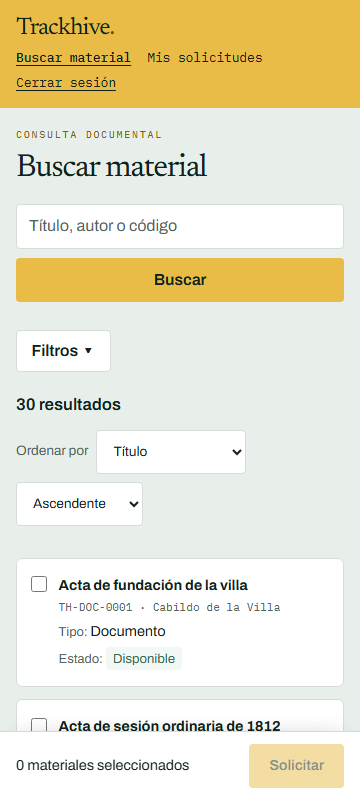
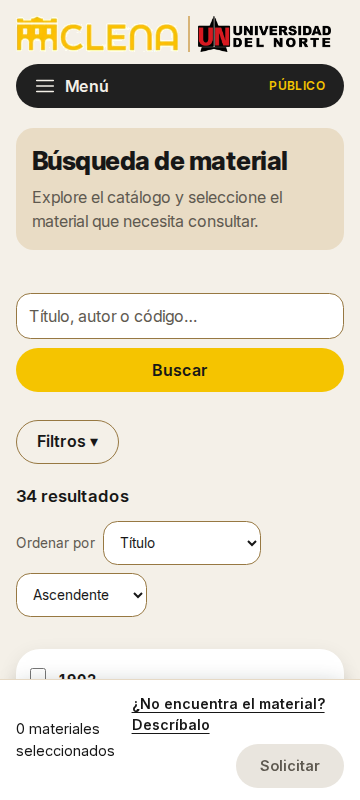
docs: deja un solo README en la raíz y mueve los demás a docs/ (#42)
- README: capturas del frontend actual a 1280 y 360 px, sin «Contribuir»
  ni «Licencia y propiedad», y la tabla de documentación con los nuevos
  docs/backend.md, docs/frontend.md y docs/agente.md.
- agent/README.md pasa a docs/agente.md y backend/README.md a
  docs/backend.md, sin la plantilla de NestJS.
- frontend/README.md pasa a docs/frontend.md con las rutas, la redirección
  por defecto y la estructura actuales; se quita «Estado y alcance», que
  describía pendientes ya resueltos.
- Se borran dev/README.md (ya lo cubre docs/everything-desarrollo.md) y
  docs/README.md (su exportación a PDF usaba scripts que no existen).
- dev/fixtures/README.md se queda: lo genera capturar_fixtures.py y lo lee
  la prueba del mock.

diff --git a/docs/frontend.md b/docs/frontend.md
@@ -1,11 +1,8 @@
-# Trackhive · Frontend
+# Frontend de Trackhive
 
-Interfaz web de Trackhive (React + TypeScript + Vite). Cubre el registro de
-investigadores (HU-47), el inicio de sesión, el buscador de material (HU-7.1),
-la pantalla de material del personal (HU-08 y #109), el registro de solicitudes del
-personal a nombre de un visitante (HU-93), el listado de solicitudes del
-personal (HU-12), el detalle de una solicitud con la acción de cambiar su
-estado (HU-13 y HU-15) y «Mis solicitudes» del usuario público (HU-11).
+Interfaz web de Trackhive en React, TypeScript y Vite. El código está en
+[`frontend/`](../frontend/); las pantallas siguen el [mapa de pantallas y
+wireframes](pantallas.md).
 
 ## Requisitos
 
@@ -27,28 +24,33 @@ pnpm test:e2e:docker # Con Docker activo: pruebas de integración a través de l
 
 ## Rutas
 
-| Ruta                             | Pantalla                                                   | Acceso           |
-| -------------------------------- | ---------------------------------------------------------- | ---------------- |
-| `/registro`                      | Registro de investigadores                                 | Público          |
-| `/login`                         | Inicio de sesión                                           | Público          |
-| `/mi-perfil`                     | Consultar y editar caracterización (HU-73)                  | Cualquier rol autenticado |
-| `/materiales`                    | Buscador de material (HU-7.1); el personal va a `/personal/materiales` | `PUBLICO`        |
-| `/solicitudes/nueva`             | Solicitud del usuario público (HU-10)                      | `PUBLICO`        |
-| `/mis-solicitudes`               | Mis solicitudes: estado de cada una (HU-11)                | `PUBLICO`        |
-| `/personal/materiales`           | Material del personal: estado (HU-08) y elegir para registrar solicitud (#109) | `PERSONAL`/`ADMIN` |
-| `/personal/solicitudes/nueva`    | Registrar solicitud a nombre de un visitante (HU-93)       | `PERSONAL`/`ADMIN` |
-| `/solicitudes`                   | Listar y filtrar solicitudes (HU-12)                       | `PERSONAL`/`ADMIN` |
-| `/solicitudes/:id`               | Detalle de una solicitud, cambio de estado y agendar cita (HU-13, HU-15, HU-18) | `PERSONAL`/`ADMIN` |
-| `/admin/usuarios`                | Gestión de usuarios del personal: crear, editar, desactivar y activar (HU-05) | `ADMIN`          |
-| `/admin/sincronizacion`          | Sincronización con Everything: última sincronización, contacto del agente y «Sincronizar ahora» (HU-138) | `ADMIN`          |
+| Ruta | Pantalla | Acceso |
+| --- | --- | --- |
+| `/registro` | Registro de investigadores (HU-47) | Público |
+| `/login` | Inicio de sesión | Público |
+| `/mi-perfil` | Consultar y editar caracterización (HU-73) y eliminar la cuenta (HU-33) | Cualquier rol autenticado |
+| `/materiales` | Buscador de material (HU-7.1); el personal va a `/personal/materiales` | `PUBLICO` |
+| `/solicitudes/nueva` | Solicitud del usuario público (HU-10) | `PUBLICO` |
+| `/mis-solicitudes` | Mis solicitudes: estado de cada una (HU-11) | `PUBLICO` |
+| `/personal/materiales` | Archivo: estado del material (HU-08), entregas y devoluciones (HU-72) y elegir material para registrar una solicitud (#109) | `PERSONAL`/`ADMIN` |
+| `/personal/solicitudes/nueva` | Registrar solicitud a nombre de un visitante (HU-93) | `PERSONAL`/`ADMIN` |
+| `/solicitudes` | Listar y filtrar solicitudes (HU-12) | `PERSONAL`/`ADMIN` |
+| `/solicitudes/:id` | Detalle de una solicitud, cambio de estado y agendar cita (HU-13, HU-15, HU-18) | `PERSONAL`/`ADMIN` |
+| `/calendario` | Calendario de citas (HU-142, WF-11) | `PERSONAL`/`ADMIN` |
+| `/reportes/material-mas-solicitado` | Material más solicitado | `PERSONAL`/`ADMIN` |
+| `/reportes/tiempos-de-atencion` | Tiempos de atención (HU-25) | `ADMIN` |
+| `/admin/usuarios` | Gestión de usuarios del personal: crear, editar, desactivar y activar (HU-05) | `ADMIN` |
+| `/admin/capacidad-sala` | Capacidad diaria de la sala de lectura | `ADMIN` |
+| `/admin/sincronizacion` | Sincronización con Everything: última sincronización, contacto del agente y «Sincronizar ahora» (HU-138) | `ADMIN` |
 
 Las rutas del usuario público viven dentro de `ProtectedRoute`; cualquier otro
 rol o una sesión vencida redirige a `/login`. Las rutas de personal viven dentro
 de `StaffRoute`; si el rol no es `PERSONAL`
 ni `ADMIN`, redirigen a `/materiales` o a `/login`. Las rutas de administración
 viven dentro de `AdminRoute`: un `PERSONAL` vuelve a `/solicitudes`, un
-`PUBLICO` a `/materiales` y sin sesión a `/login`. Cualquier otra ruta redirige
-a `/registro`.
+`PUBLICO` a `/materiales` y sin sesión a `/login`. Cualquier otra ruta lleva a la pantalla
+inicial del rol (`/materiales` para `PUBLICO`, `/solicitudes` para el
+personal) o, sin sesión, a `/login`.
 
 ## API
 
@@ -78,7 +80,7 @@ Usa `personal1@example.com` con contraseña `1`, o `SEED_DEMO_PASSWORD` del proc
 Comprueba registro, precarga, edición persistida, reutilización sin repetir los
 campos y 401 sin token. Deja una captura de «Mi perfil» en `test-results/`.
 El catálogo y la finalidad pendiente de confirmar con CLENA están en
-[`docs/datos-personales.md`](../docs/datos-personales.md).
+[`docs/datos-personales.md`](datos-personales.md).
 
 ### Actualización automática de solicitudes (HU-12.1, #141)
 
@@ -268,26 +270,6 @@ propia cuenta).
   volver a la pestaña. Lo hace cada 5 s mientras hay una corrida pedida o en
   curso, y cada 30 s si no, así que el resultado nuevo aparece sin recargar
   cuando el agente termina. Se anuncia en una región `status`.
-
-## Estado y alcance
-
-- **HU-01 integrado:** el `POST /api/v1/users` acepta `firstName`,
-  `middleName`, `lastName`, `secondLastName` (issue #96), `email` y
-  `password`, guarda la contraseña como hash y responde `409` si el correo ya
-  existe.
-- **HU-31 (aviso de privacidad):** la pantalla exige aceptar el aviso antes de
-  enviar el formulario. El texto real, la versión y la fecha de vigencia están
-  en `src/features/auth/register/privacy-policy.ts` y
-  `PrivacyConsent.tsx`. **Pendiente:** el backend aún no recibe ni guarda la
-  aceptación, la fecha y la versión.
-- **HU-46:** el [mapa de pantallas y wireframes](../docs/pantallas.md) incluye
-  vistas PNG y archivos SVG importables en Figma. Son borradores de referencia;
-  la revisión y validación con G6 están pendientes y no bloquean otras HU.
-- **HU-48 no disponible:** `/login` es un marcador temporal; al registrarse se
-  redirige allí con un aviso y el correo registrado.
-- **HU-93 integrado:** la pantalla de mostrador permite buscar al solicitante,
-  elegir materiales en `/personal/materiales` (#109), registrar la solicitud y mostrar
-  el comprobante con el código de seguimiento. No modifica el backend.
 
 ## Accesibilidad
 
@@ -500,12 +482,25 @@ personal al destino correcto.
 ## Estructura
 
 ```text
-src/
-  features/auth/
-    api/            # cliente de registro y errores tipados
-    components/     # AuthLayout y TextField accesibles
-    login/          # marcador de posición de /login
-    register/       # pantalla, esquema Zod y pruebas
-  styles/           # tokens y estilos globales
-  test/             # configuración de Testing Library
+frontend/
+├── src/
+│   ├── App.tsx          # rutas (las de ROUTES en routes.ts) y sus guardas por rol
+│   ├── main.tsx         # router de datos (useBlocker) que envuelve <App />
+│   ├── assets/          # logos de CLENA y Uninorte y la fuente Inter
+│   ├── features/        # una carpeta por funcionalidad: pantallas, api/, CSS Modules y pruebas al lado
+│   │   ├── auth/        # registro, inicio de sesión, sesión y guardas por rol
+│   │   ├── layout/      # AppLayout, PageHeader, título de la pestaña y diálogos modales
+│   │   ├── navigation/  # menú por rol, foco al cambiar de ruta, filtros en la URL y aviso de cambios sin guardar
+│   │   ├── materials/   # buscador público, archivo del personal, entregas e historial de custodia
+│   │   ├── requests/    # solicitudes, detalle, citas, calendario y capacidad de la sala
+│   │   ├── reports/     # material más solicitado y tiempos de atención
+│   │   ├── users/       # gestión de usuarios del personal
+│   │   ├── everything/  # sincronización con Everything
+│   │   ├── profile/     # Mi perfil y eliminar la cuenta
+│   │   ├── brand/       # logos institucionales
+│   │   └── pending/     # marcador temporal de antes de HU-12; ninguna ruta lo usa
+│   ├── styles/          # tokens, breakpoints y estilos globales
+│   └── test/            # configuración de Vitest y Testing Library
+├── e2e/                 # Playwright: responsive a 360 px y pruebas contra Docker
+└── nginx/               # HTTPS (producción) o HTTP (desarrollo) y proxy hacia la API
 ```

diff --git a/docs/backend.md b/docs/backend.md
@@ -1,29 +1,22 @@
-<p align="center">
-  <a href="http://nestjs.com/" target="blank"><img src="https://nestjs.com/img/logo-small.svg" width="120" alt="Nest Logo" /></a>
-</p>
+# Backend de Trackhive
 
-[circleci-image]: https://img.shields.io/circleci/build/github/nestjs/nest/master?token=abc123def456
-[circleci-url]: https://circleci.com/gh/nestjs/nest
+API REST en NestJS con Prisma y PostgreSQL. El código está en [`backend/`](../backend/) y sigue la Clean Architecture descrita en [arquitectura.md](arquitectura.md) (D-25).
 
-  <p align="center">A progressive <a href="http://nodejs.org" target="_blank">Node.js</a> framework for building efficient and scalable server-side applications.</p>
-    <p align="center">
-<a href="https://www.npmjs.com/~nestjscore" target="_blank"><img src="https://img.shields.io/npm/v/@nestjs/core.svg" alt="NPM Version" /></a>
-<a href="https://www.npmjs.com/~nestjscore" target="_blank"><img src="https://img.shields.io/npm/l/@nestjs/core.svg" alt="Package License" /></a>
-<a href="https://www.npmjs.com/~nestjscore" target="_blank"><img src="https://img.shields.io/npm/dm/@nestjs/common.svg" alt="NPM Downloads" /></a>
-<a href="https://circleci.com/gh/nestjs/nest" target="_blank"><img src="https://img.shields.io/circleci/build/github/nestjs/nest/master" alt="CircleCI" /></a>
-<a href="https://discord.gg/G7Qnnhy" target="_blank"><img src="https://img.shields.io/badge/discord-online-brightgreen.svg" alt="Discord"/></a>
-<a href="https://opencollective.com/nest#backer" target="_blank"><img src="https://opencollective.com/nest/backers/badge.svg" alt="Backers on Open Collective" /></a>
-<a href="https://opencollective.com/nest#sponsor" target="_blank"><img src="https://opencollective.com/nest/sponsors/badge.svg" alt="Sponsors on Open Collective" /></a>
-  <a href="https://paypal.me/kamilmysliwiec" target="_blank"><img src="https://img.shields.io/badge/Donate-PayPal-ff3f59.svg" alt="Donate us"/></a>
-    <a href="https://opencollective.com/nest#sponsor"  target="_blank"><img src="https://img.shields.io/badge/Support%20us-Open%20Collective-41B883.svg" alt="Support us"></a>
-  <a href="https://twitter.com/nestframework" target="_blank"><img src="https://img.shields.io/twitter/follow/nestframework.svg?style=social&label=Follow" alt="Follow us on Twitter"></a>
-</p>
-  <!--[![Backers on Open Collective](https://opencollective.com/nest/backers/badge.svg)](https://opencollective.com/nest#backer)
-  [![Sponsors on Open Collective](https://opencollective.com/nest/sponsors/badge.svg)](https://opencollective.com/nest#sponsor)-->
+## Comandos
 
-## Description
+Desde `backend/`, con PostgreSQL y Mailpit levantados (ver el [README](../README.md#desarrollo-local-sin-docker)):
 
-Backend de Trackhive: API REST en NestJS con Prisma y PostgreSQL.
+```bash
+pnpm install
+pnpm exec prisma generate
+pnpm db:migrate
+pnpm db:seed
+pnpm start:dev     # API en http://localhost:3000, Swagger en /docs
+pnpm lint:check
+pnpm test          # unitarias, incluida la prueba de arquitectura
+pnpm test:e2e      # contra PostgreSQL, en la base <POSTGRES_DB>_e2e
+pnpm build
+```
 
 ## API
 
@@ -124,78 +117,6 @@ Verificar con `pnpm test -- --runInBand 'csv|export-report'` y
 aislado, compara CSV con los reportes JSON y comprueba permisos, filtros,
 caracteres especiales, archivos vacíos y ausencia de escrituras durante la
 consulta y sus errores. No requiere migración ni cambios al esquema.
-
-## Project setup
-
-```bash
-$ pnpm install
-```
-
-## Compile and run the project
-
-```bash
-# development
-$ pnpm run start
-
-# watch mode
-$ pnpm run start:dev
-
-# production mode
-$ pnpm run start:prod
-```
-
-## Run tests
-
-```bash
-# unit tests
-$ pnpm run test
-
-# e2e tests
-$ pnpm run test:e2e
-
-# test coverage
-$ pnpm run test:cov
-```
-
-## Deployment
-
-When you're ready to deploy your NestJS application to production, there are some key steps you can take to ensure it runs as efficiently as possible. Check out the [deployment documentation](https://docs.nestjs.com/deployment) for more information.
-
-If you are looking for a cloud-based platform to deploy your NestJS application, check out [Mau](https://mau.nestjs.com), our official platform for deploying NestJS applications on AWS. Mau makes deployment straightforward and fast, requiring just a few simple steps:
-
-```bash
-$ pnpm install -g @nestjs/mau
-$ mau deploy
-```
-
-With Mau, you can deploy your application in just a few clicks, allowing you to focus on building features rather than managing infrastructure.
-
-## Resources
-
-Check out a few resources that may come in handy when working with NestJS:
-
-- Visit the [NestJS Documentation](https://docs.nestjs.com) to learn more about the framework.
-- For questions and support, please visit our [Discord channel](https://discord.gg/G7Qnnhy).
-- To dive deeper and get more hands-on experience, check out our official video [courses](https://courses.nestjs.com/).
-- Deploy your application to AWS with the help of [NestJS Mau](https://mau.nestjs.com) in just a few clicks.
-- Visualize your application graph and interact with the NestJS application in real-time using [NestJS Devtools](https://devtools.nestjs.com).
-- Need help with your project (part-time to full-time)? Check out our official [enterprise support](https://enterprise.nestjs.com).
-- To stay in the loop and get updates, follow us on [X](https://x.com/nestframework) and [LinkedIn](https://linkedin.com/company/nestjs).
-- Looking for a job, or have a job to offer? Check out our official [Jobs board](https://jobs.nestjs.com).
-
-## Support
-
-Nest is an MIT-licensed open source project. It can grow thanks to the sponsors and support by the amazing backers. If you'd like to join them, please [read more here](https://docs.nestjs.com/support).
-
-## Stay in touch
-
-- Author - [Kamil Myśliwiec](https://twitter.com/kammysliwiec)
-- Website - [https://nestjs.com](https://nestjs.com/)
-- Twitter - [@nestframework](https://twitter.com/nestframework)
-
-## License
-
-Nest is [MIT licensed](https://github.com/nestjs/nest/blob/master/LICENSE).
 
 ## Supresión de cuenta (HU-33)
 

diff --git a/README.md b/README.md
@@ -25,8 +25,6 @@ Trackhive es una aplicación web con la que el CLENA recibe las solicitudes de c
 - [Estructura del repositorio](#estructura-del-repositorio)
 - [Documentación](#documentación)
 - [Solución de problemas](#solución-de-problemas)
-- [Contribuir](#contribuir)
-- [Licencia y propiedad](#licencia-y-propiedad)
 
 ---
 
@@ -313,7 +311,7 @@ pip install -r dev/requirements.txt -r agent/requirements.txt
 python -m unittest discover -s agent/tests -t agent
 ```
 
-El CI también las corre en Linux y en Windows, contra el mock de Everything. En Windows construye `trackhive-agente.exe` con PyInstaller, lo prueba y lo publica como artefacto `trackhive-agente` ([agent/README.md](agent/README.md)).
+El CI también las corre en Linux y en Windows, contra el mock de Everything. En Windows construye `trackhive-agente.exe` con PyInstaller, lo prueba y lo publica como artefacto `trackhive-agente` ([docs/agente.md](docs/agente.md)).
 
 ## Estructura del repositorio
 
@@ -349,14 +347,13 @@ Trackhive/
 ├── docker-compose.yml       # producción: PostgreSQL, backend y frontend con HTTPS
 ├── docker-compose.dev.yml   # desarrollo: puertos de depuración, Mailpit y el mock de Everything
 ├── .env.example             # plantilla del entorno local
-└── README.md
+└── README.md            # este archivo; el resto de la documentación está en docs/
 ```
 
 ## Documentación
 
 El [mapa de pantallas y wireframes](docs/pantallas.md) incluye los roles,
-la navegación y los bocetos SVG y PNG de HU-46 / HU-152, en escritorio y móvil (360 px), con los logos institucionales. Son borradores de
-referencia con revisión y validación de G6 pendientes.
+la navegación y los wireframes aprobados (HU-46 / HU-152), en escritorio y móvil (360 px), con las diferencias entre los bocetos y la aplicación.
 
 | Documento | Contenido |
 |---|---|
@@ -365,12 +362,18 @@ referencia con revisión y validación de G6 pendientes.
 | [`docs/modelo-datos.md`](docs/modelo-datos.md) / [`docs/modelo-datos.pdf`](docs/modelo-datos.pdf) | Diagrama entidad-relación, tablas, índices, migraciones y datos personales. |
 | [`docs/manual-operacion.md`](docs/manual-operacion.md) | Operación, variables de entorno, correos, respaldos, diagnóstico e instalación del agente de Everything en el PC del CLENA (HU-166). |
 | [`docs/everything-desarrollo.md`](docs/everything-desarrollo.md) | Entorno de Everything con documentos simulados: estructura del CLENA, Everything portable e instalado, fixtures, mock y sincronización con el backend (HU-137). |
-| [`docs/manual-usuario.md`](docs/manual-usuario.md) | Guía del personal del CLENA (en elaboración). |
+| [`docs/manual-usuario.md`](docs/manual-usuario.md) | Guía de uso para el personal y el administrador del CLENA. |
 | [`docs/sprint-planning.md`](docs/sprint-planning.md), [`docs/daily-scrum.md`](docs/daily-scrum.md), [`docs/sprint-review.md`](docs/sprint-review.md), [`docs/sprint-retrospective.md`](docs/sprint-retrospective.md) | Ceremonias y evidencias Scrum. |
 | [`docs/evidencias.md`](docs/evidencias.md) | Grabaciones y material recibido de G6. |
 | [`docs/automatizacion-tablero.md`](docs/automatizacion-tablero.md) | Automatización del tablero Scrum en GitHub. |
-| [`backend/README.md`](backend/README.md) | API, Swagger, pruebas y comandos del backend. |
-| [`frontend/README.md`](frontend/README.md) | Rutas, pantallas, accesibilidad, responsive y pruebas del frontend. |
+| [`docs/backend.md`](docs/backend.md) | API, formato de errores, Swagger, comandos y notas por HU del backend. |
+| [`docs/frontend.md`](docs/frontend.md) | Rutas, pantallas, accesibilidad, responsive, pruebas y estructura del frontend. |
+| [`docs/agente.md`](docs/agente.md) | Agente de sincronización con Everything: qué hace, cómo se prueba y cómo se construye el `.exe` (HU-166). |
+| [`docs/pantallas.md`](docs/pantallas.md) | Mapa de pantallas, wireframes aprobados y diferencias con la aplicación. |
+| [`docs/datos-personales.md`](docs/datos-personales.md) | Datos personales que se piden, su finalidad y quién los ve. |
+| [`docs/inception.md`](docs/inception.md) / [`docs/inception.pdf`](docs/inception.pdf) | Acta de Inception. |
+
+Los videos no se suben al repositorio: viven en SharePoint y se enlazan desde `evidencias.md` e `inception.md`.
 
 ## Solución de problemas
 
@@ -426,18 +429,3 @@ Las imágenes de Docker no se actualizan solas:
 ```bash
 docker compose up -d --build
 ```
-
-## Contribuir
-
-1. Crea una rama desde `main` con el número del issue:
-   - `feat/<issue>-descripcion`
-   - `fix/<issue>-descripcion`
-   - `docs/<issue>-descripcion`
-2. Haz commits claros y enlaza el issue en el PR (`Closes #<issue>`).
-3. Antes de pedir revisión, ejecuta lint, pruebas y build del paquete que cambiaste.
-4. Abre el PR con la [plantilla del repositorio](.github/pull_request_template.md). Se requiere CI en verde y al menos una aprobación.
-5. Al crear la rama, la Action del tablero mueve el issue a **In Progress**; al abrir el PR, a **In review**; al fusionarlo, a **Done**.
-
-## Licencia y propiedad
-
-Proyecto académico del Grupo 1 para el curso Backend (Proyecto P4, «Soluciones para el CLENA»). La licencia y la propiedad del código están pendientes de definir con el CLENA y la universidad; hasta entonces, el repositorio se usa con fines educativos y de demostración.

diff --git a/docs/everything-desarrollo.md b/docs/everything-desarrollo.md
@@ -13,6 +13,8 @@ Guía de HU-133 (#133, épica E11). Sirve para desarrollar y probar la integraci
 | Pruebas | `dev/tests/` | Generador, manifiesto y mock frente a los fixtures; corren en el CI en Linux y Windows |
 | Agente | `agent/` | Programa del PC del CLENA que consulta Everything y envía las páginas al backend (HU-166, sección 7) |
 
+No contiene imágenes reales ni datos personales del CLENA: las imágenes son archivos vacíos y los nombres solo copian la forma de las carpetas.
+
 Todo usa Python 3.10 o superior y una sola dependencia, PyYAML:
 
 ```bash
@@ -229,7 +231,7 @@ python dev/scripts/comparar_everything.py --url http://127.0.0.1:8081 --bytes
 
 ## 7. Sincronización con el backend (HU-137)
 
-El backend **no tiene cliente HTTP hacia Everything** y ya no usa `EVERYTHING_URL`, `EVERYTHING_USER` ni `EVERYTHING_PASSWORD`: esos datos están en la configuración del agente (`agente.toml`, claves `everything.url`, `user` y `password`; HU-166). Everything solo responde peticiones y el PC del CLENA no se alcanza desde los servidores de la universidad, así que el agente, instalado en ese PC, consulta Everything en `localhost` y envía al backend cada página **sin transformarla** (por HTTPS en producción, HU-42). El navegador nunca llama a Everything. El código del agente está en [`agent/`](../agent/README.md), y su instalación en el CLENA en el [manual de operación](manual-operacion.md), sección 10.
+El backend **no tiene cliente HTTP hacia Everything** y ya no usa `EVERYTHING_URL`, `EVERYTHING_USER` ni `EVERYTHING_PASSWORD`: esos datos están en la configuración del agente (`agente.toml`, claves `everything.url`, `user` y `password`; HU-166). Everything solo responde peticiones y el PC del CLENA no se alcanza desde los servidores de la universidad, así que el agente, instalado en ese PC, consulta Everything en `localhost` y envía al backend cada página **sin transformarla** (por HTTPS en producción, HU-42). El navegador nunca llama a Everything. El código del agente está en [`agent/`](../agent/) ([agente.md](agente.md)), y su instalación en el CLENA en el [manual de operación](manual-operacion.md), sección 10.
 
 ### Endpoints de ingesta
 
@@ -390,7 +392,7 @@ pip install -r dev/requirements.txt -r agent/requirements.txt
 python -m unittest discover -s agent/tests -t agent -v
 ```
 
-Prueban las reglas de la corrida (numeración, nunca completa tras un fallo), la configuración (`http://` solo contra `localhost`, token de 32 caracteres o más, raíces iguales a las de `backend/config/catalog-convention.json`), el caso de uso con fakes (reintentos con espera creciente, Everything caído o lento) y el agente como proceso contra el **mock de esta guía** y un Trackhive falso, también por HTTPS con un certificado de prueba. La consulta del agente es la misma de los fixtures (`carpetas_notarias_p1`), y la página que envía es, byte a byte, la que responde Everything. El job `agente` del CI las corre en Ubuntu y Windows; en Windows además construye `trackhive-agente.exe`, lo prueba igual y revisa la tarea programada ([agent/README.md](../agent/README.md)).
+Prueban las reglas de la corrida (numeración, nunca completa tras un fallo), la configuración (`http://` solo contra `localhost`, token de 32 caracteres o más, raíces iguales a las de `backend/config/catalog-convention.json`), el caso de uso con fakes (reintentos con espera creciente, Everything caído o lento) y el agente como proceso contra el **mock de esta guía** y un Trackhive falso, también por HTTPS con un certificado de prueba. La consulta del agente es la misma de los fixtures (`carpetas_notarias_p1`), y la página que envía es, byte a byte, la que responde Everything. El job `agente` del CI las corre en Ubuntu y Windows; en Windows además construye `trackhive-agente.exe`, lo prueba igual y revisa la tarea programada ([agente.md](agente.md)).
 
 ### Árbol, mock y fixtures
 

diff --git a/docs/agente.md b/docs/agente.md
@@ -1,9 +1,9 @@
-# agent: agente de sincronización con Everything (HU-166)
+# Agente de sincronización con Everything (HU-166)
 
-Programa de consola que se instala en el PC del CLENA. Consulta el servidor HTTP de *Everything* en ese mismo PC y envía cada página, **tal como la respondió Everything**, a los endpoints de ingesta de Trackhive (HU-137). Solo hace conexiones salientes por HTTPS: los servidores de Trackhive nunca tienen que llegar al PC del CLENA (decisión en [D-17](../docs/arquitectura.md#d-17-sin-integración-automática-con-everything-ni-lectura-de-buzón-imap)).
+Código en [`agent/`](../agent/). Programa de consola que se instala en el PC del CLENA. Consulta el servidor HTTP de *Everything* en ese mismo PC y envía cada página, **tal como la respondió Everything**, a los endpoints de ingesta de Trackhive (HU-137). Solo hace conexiones salientes por HTTPS: los servidores de Trackhive nunca tienen que llegar al PC del CLENA (decisión en [D-17](arquitectura.md#d-17-sin-integración-automática-con-everything-ni-lectura-de-buzón-imap)).
 
-- **Instalación y operación en el CLENA:** [docs/manual-operacion.md, sección 10](../docs/manual-operacion.md#10-agente-de-sincronización-con-everything-hu-166).
-- **Endpoints de ingesta y desarrollo con el mock:** [docs/everything-desarrollo.md, sección 7](../docs/everything-desarrollo.md#7-sincronización-con-el-backend-hu-137).
+- **Instalación y operación en el CLENA:** [docs/manual-operacion.md, sección 10](manual-operacion.md#10-agente-de-sincronización-con-everything-hu-166).
+- **Endpoints de ingesta y desarrollo con el mock:** [docs/everything-desarrollo.md, sección 7](everything-desarrollo.md#7-sincronización-con-el-backend-hu-137).
 
 ## Qué hace en cada ejecución
 

diff --git a/docs/manual-operacion.md b/docs/manual-operacion.md
@@ -386,7 +386,7 @@ El agente es un programa de consola, `trackhive-agente.exe`, que se instala en e
 
 ### 10.2 Instalación
 
-1. **Descargar el paquete.** En GitHub, **Actions → CI**, la última ejecución en `main`, artefacto `trackhive-agente`. Trae `trackhive-agente.exe`, `agente.example.toml` e `instalar-tarea.ps1`. También se puede construir en Windows ([agent/README.md](../agent/README.md)).
+1. **Descargar el paquete.** En GitHub, **Actions → CI**, la última ejecución en `main`, artefacto `trackhive-agente`. Trae `trackhive-agente.exe`, `agente.example.toml` e `instalar-tarea.ps1`. También se puede construir en Windows ([agente.md](agente.md)).
 2. **Copiarlo** a `C:\Trackhive\agente\`, con el usuario que trabaja en ese PC. Tiene que ser una carpeta en la que ese usuario pueda escribir: ahí quedan la configuración y el log.
 3. **Configurarlo.** Copiar `agente.example.toml` como `agente.toml` y completarlo con el Bloc de notas, guardando en UTF-8. Las rutas y las contraseñas van entre comillas simples (`'Z:\Aha\…'`).
 
